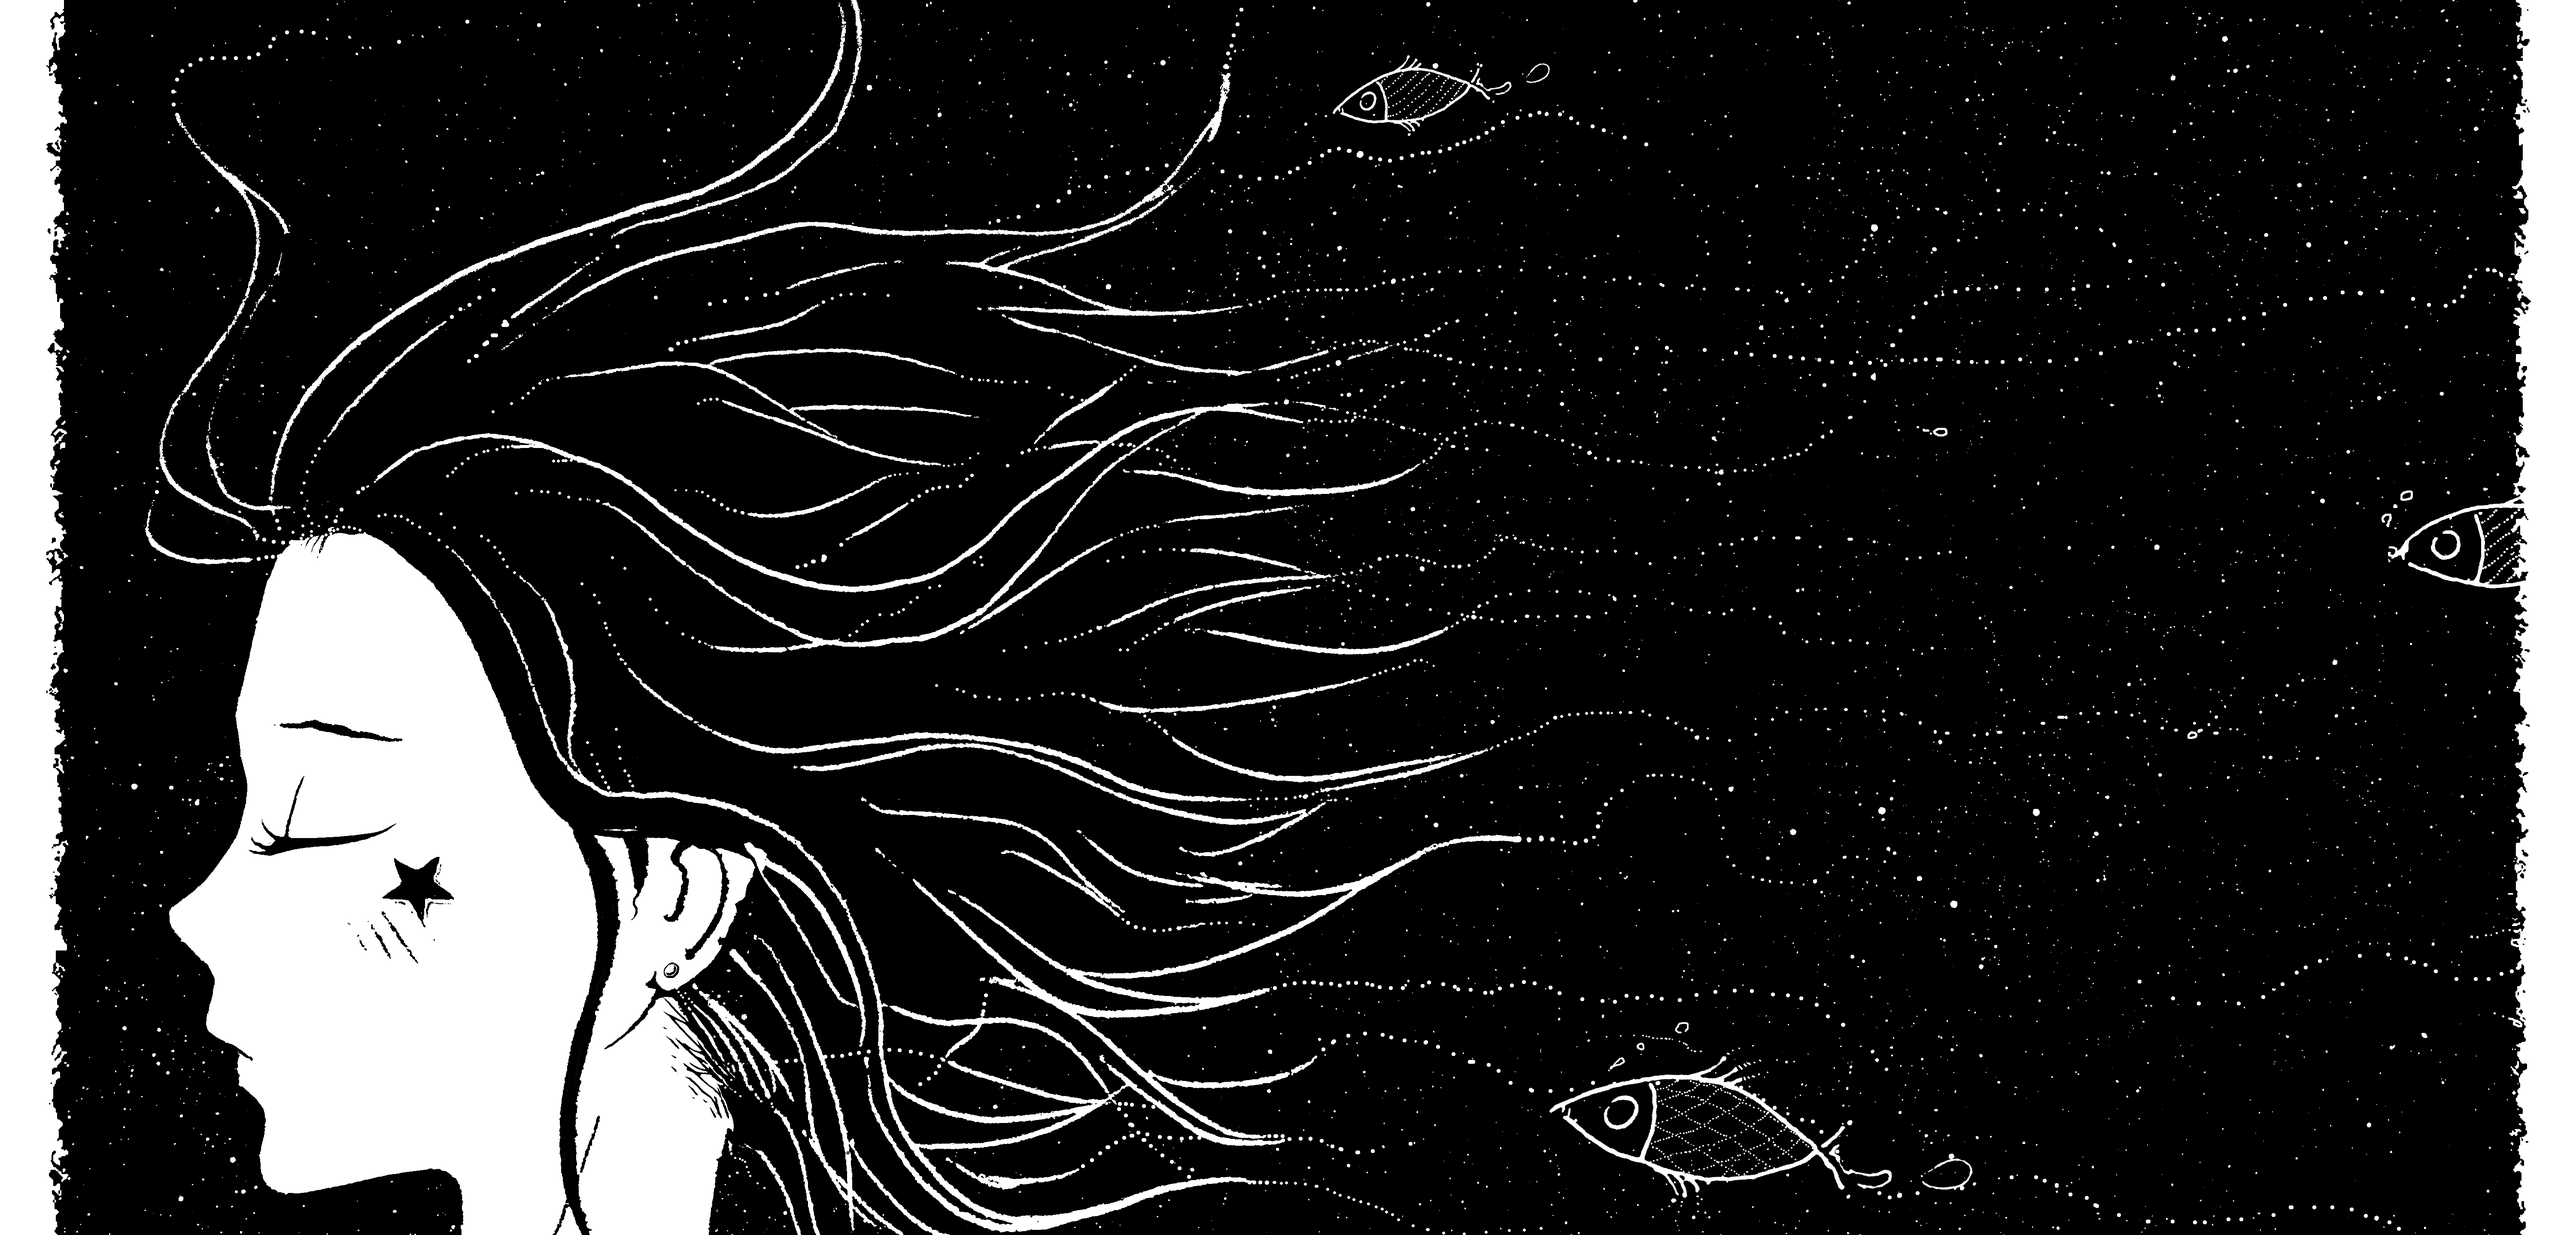
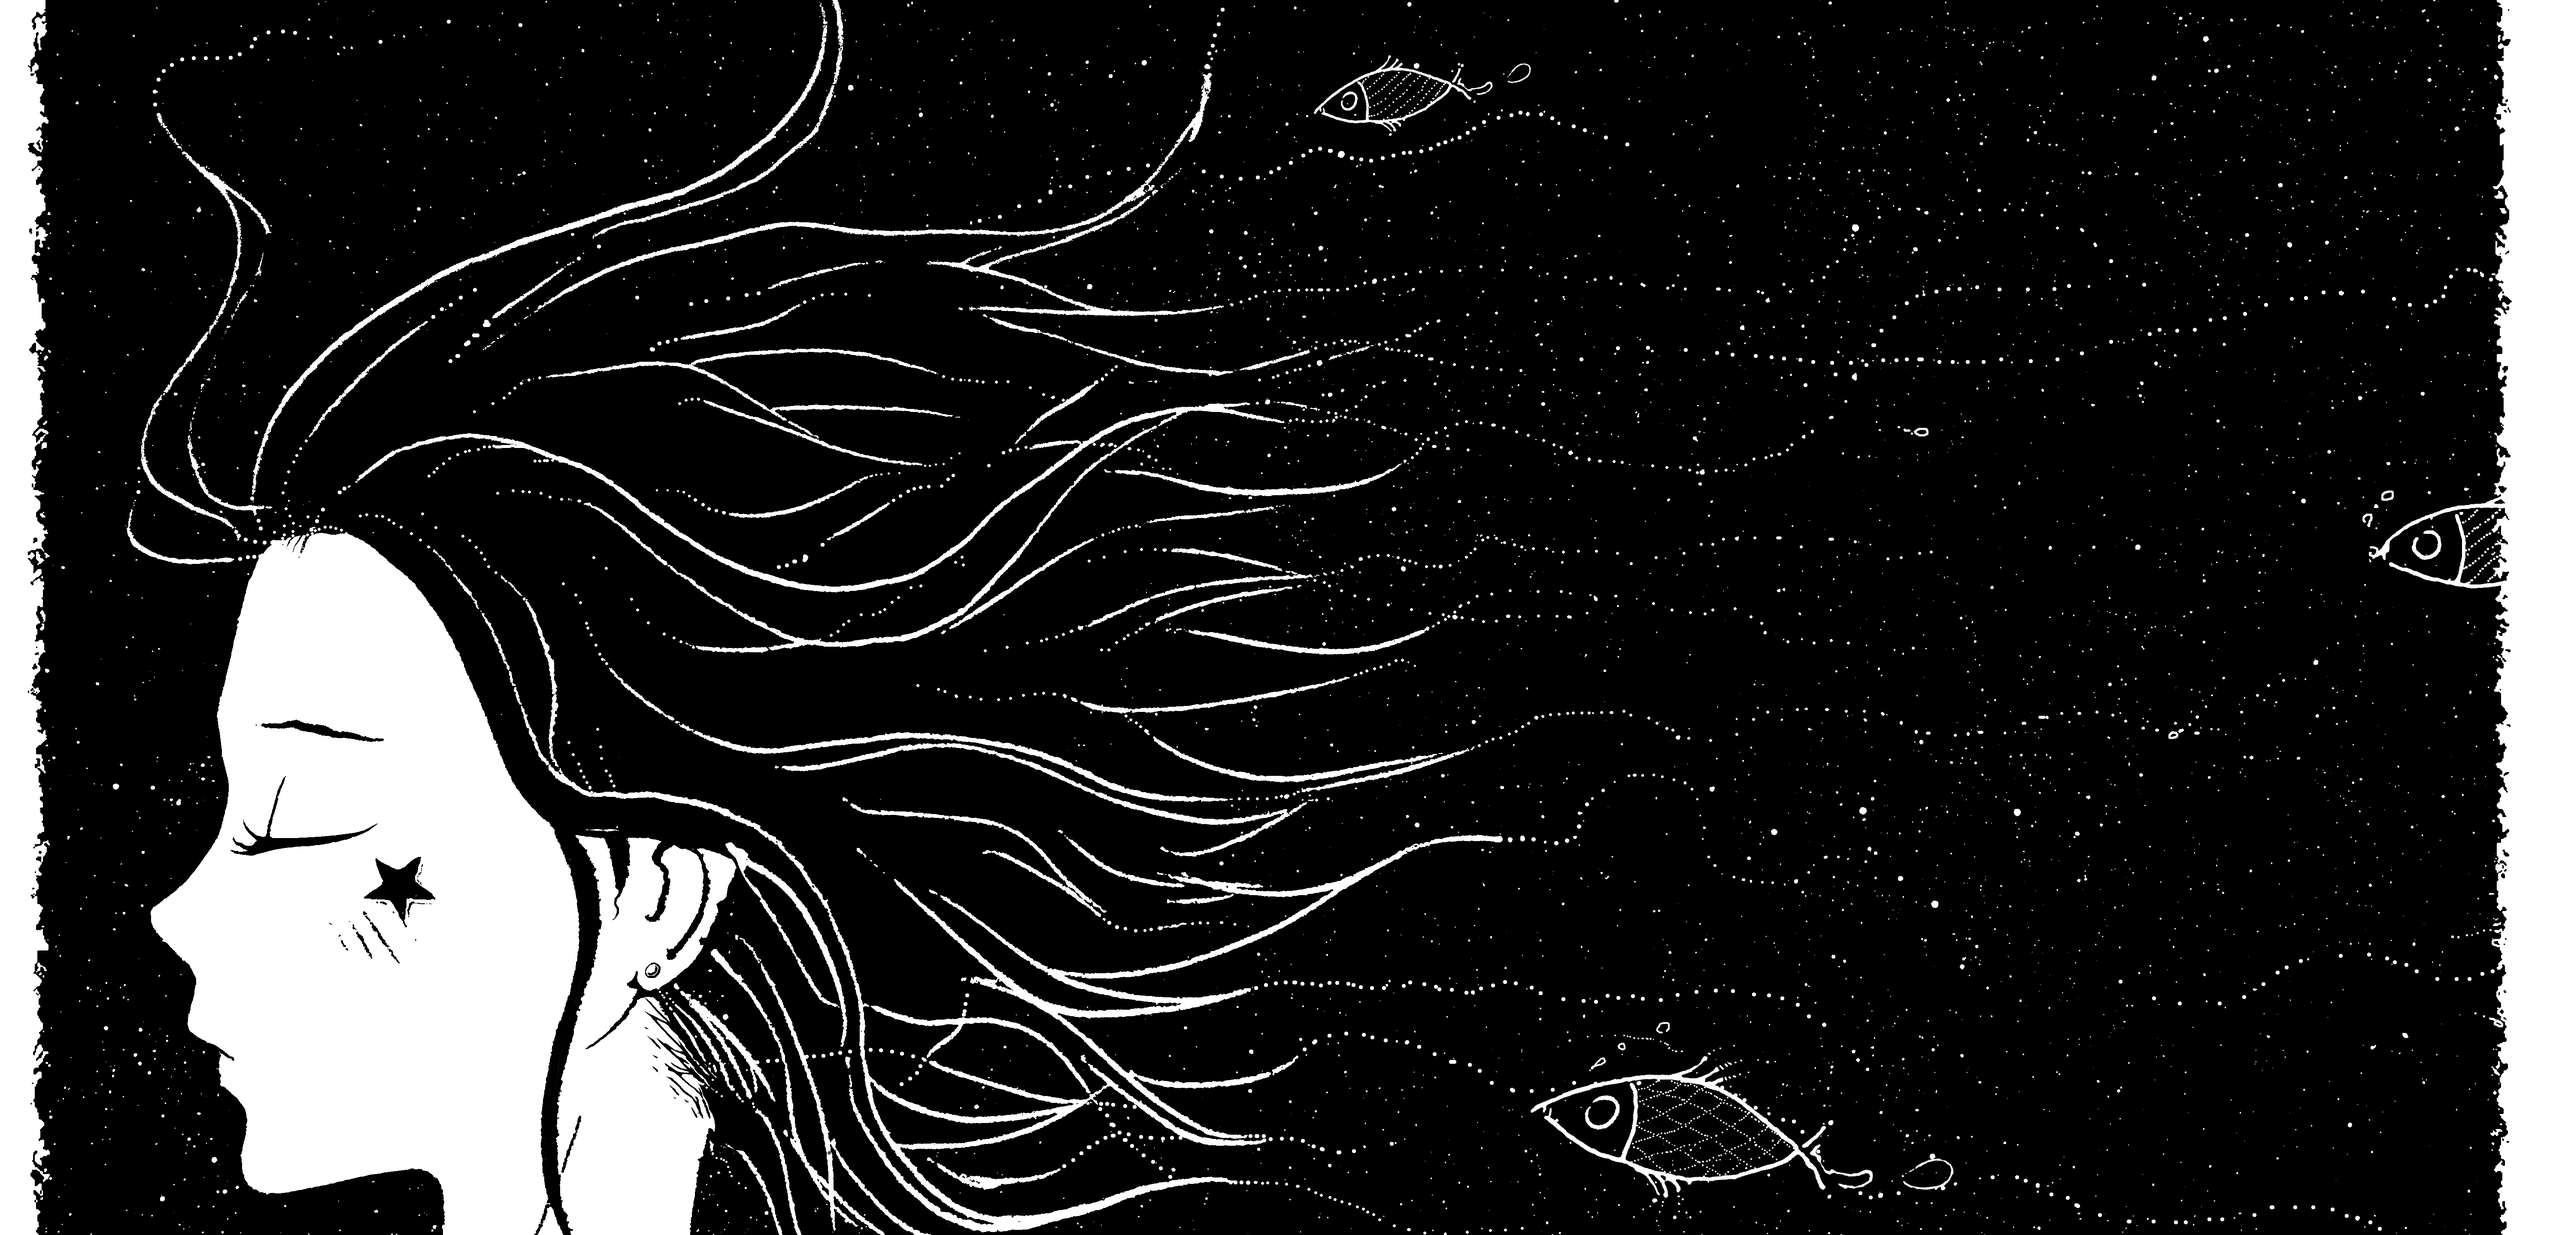
Hero image
Used parallax effect on hero image (also made media query to stop parallax for mobile use)

diff --git a/css/styles_1.00.css b/css/styles_1.00.css
@@ -1,12 +1,13 @@
 /* Wei-Ting Lin - weiting.dev@gmail.com */
 
-body {
+body, html {
+	height: 100%;
     font-family: 'Quicksand', sans-serif;
     color: #563A34;
     line-height: 2;
     letter-spacing: 0.10em;
-    padding: 70px 0px 0px;
     text-align: center;
+    overflow-x: hidden;
 }
 
 section {
@@ -129,7 +130,12 @@ a:hover {
 
 /* Images */
 .hero {
-	max-width: 100%;
+    background-image: url("../img/fairy-tale-1180922.png");
+    min-height: 100%;
+    background-attachment: fixed;
+    background-position: center;
+    background-repeat: no-repeat;
+    background-size: cover;
 }
 
 .projects img {
@@ -169,4 +175,15 @@ footer div {
 
 .copyright {
 	font-size: 0.75em;
+}
+
+
+/* Media Queries */
+@media only screen and (max-device-width: 1024px) {
+    .hero {
+        background-attachment: scroll;
+        background-position: left;
+        margin-left: -1em;
+        min-height: 50vh;
+    }
 }

diff --git a/index.html b/index.html
@@ -41,8 +41,10 @@
                 </ul>
               </div>
             </nav>
-            <img class="hero" src="./img/fairy-tale-1180922.png" alt="Hero illustrated by ST.Woody (愚木混株)"/>
+            <!-- <img class="hero" src="./img/fairy-tale-1180922.png" alt="Hero illustrated by ST.Woody (愚木混株)"/> -->
         </header>
+        
+        <div class="hero"></div>
         
         <!-- Main Content -->
         <main>

diff --git a/cozy.html b/cozy.html
@@ -41,8 +41,9 @@
                 </ul>
               </div>
             </nav>
-            <img class="hero" src="./img/fairy-tale-1180922.png" alt="Hero illustrated by ST.Woody (愚木混株)"/>
         </header>
+
+        <div class="hero"></div>
         
         <!-- Main Content -->
         <main>
